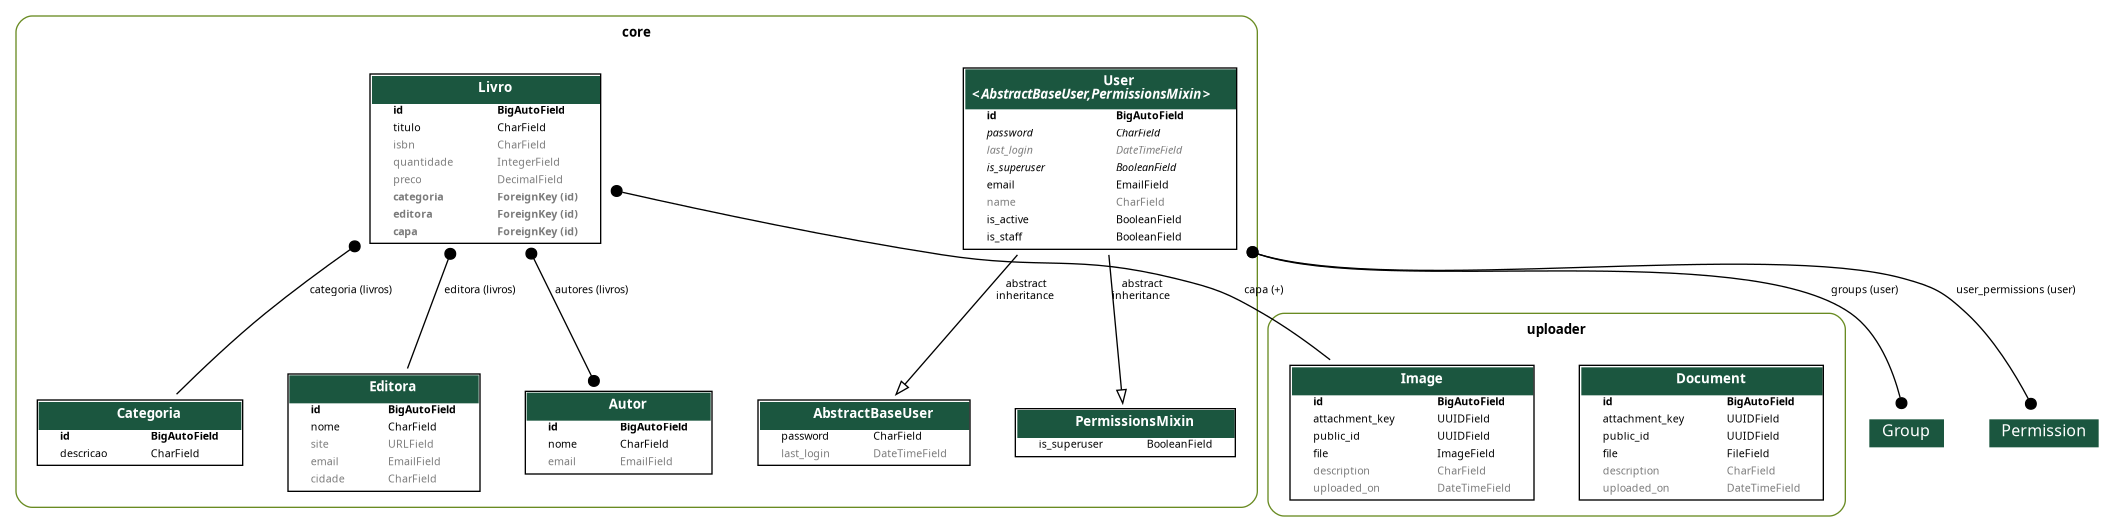
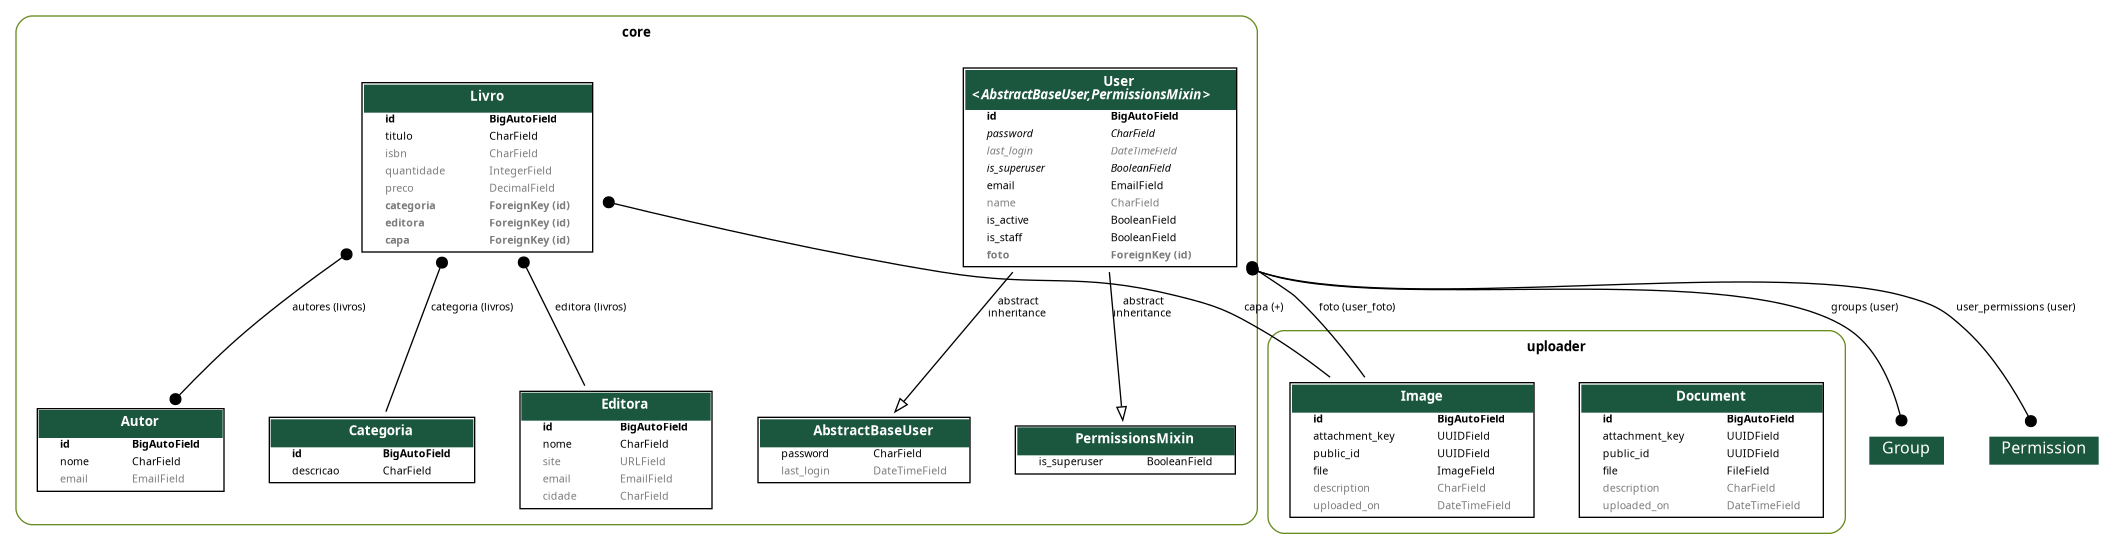
feat: inclusão da foto de perfil no usuário

diff --git a/core/admin.py b/core/admin.py
@@ -1,6 +1,7 @@
 """
 Django admin customization.
 """
+
 from django.contrib import admin
 from django.contrib.admin import ModelAdmin, register
 from django.contrib.auth.admin import UserAdmin as BaseUserAdmin
@@ -41,7 +42,7 @@ class LivroAdmin(admin.ModelAdmin):
     list_display = ('titulo', 'editora', 'categoria')
     search_fields = ('titulo', 'editora__nome', 'categoria__descricao')
     list_filter = ('editora', 'categoria')
-    ordering = ('titulo', 'editora', 'categoria')
+    ordering = ('titulo',)
     list_per_page = 25
 
 
@@ -50,10 +51,42 @@ class UserAdmin(BaseUserAdmin):
     """Define the admin pages for users."""
 
     ordering = ['id']
-    list_display = ['email', 'name']
+
+    list_display = (
+        'email',
+        'name',
+        'is_staff',
+        'is_active',
+    )
+
+    search_fields = (
+        'email',
+        'name',
+    )
+
+    readonly_fields = (
+        'last_login',
+    )
+
     fieldsets = (
-        (None, {'fields': ('email', 'password')}),
-        (_('Personal Info'), {'fields': ('name',)}),
+        (
+            None,
+            {
+                'fields': (
+                    'email',
+                    'password',
+                ),
+            },
+        ),
+        (
+            _('Personal Info'),
+            {
+                'fields': (
+                    'name',
+                    'foto',
+                ),
+            },
+        ),
         (
             _('Permissions'),
             {
@@ -61,14 +94,21 @@ class UserAdmin(BaseUserAdmin):
                     'is_active',
                     'is_staff',
                     'is_superuser',
-                )
+                    'groups',
+                    'user_permissions',
+                ),
             },
         ),
-        (_('Important dates'), {'fields': ('last_login',)}),
-        (_('Groups'), {'fields': ('groups',)}),
-        (_('User Permissions'), {'fields': ('user_permissions',)}),
+        (
+            _('Important dates'),
+            {
+                'fields': (
+                    'last_login',
+                ),
+            },
+        ),
     )
-    readonly_fields = ['last_login']
+
     add_fieldsets = (
         (
             None,
@@ -76,9 +116,9 @@ class UserAdmin(BaseUserAdmin):
                 'classes': ('wide',),
                 'fields': (
                     'email',
+                    'name',
                     'password1',
                     'password2',
-                    'name',
                     'is_active',
                     'is_staff',
                     'is_superuser',

diff --git a/core/serializers/user.py b/core/serializers/user.py
@@ -1,18 +1,35 @@
 from rest_framework import serializers
-from rest_framework.serializers import ModelSerializer
+from rest_framework.serializers import ModelSerializer, SlugRelatedField
 
 from core.models import User
+from uploader.models import Image
+from uploader.serializers import ImageSerializer
 
 
 class UserSerializer(ModelSerializer):
+    foto_attachment_key = SlugRelatedField(
+        source='foto',
+        queryset=Image.objects.all(),
+        slug_field='attachment_key',
+        required=False,
+        write_only=True,
+    )
+
+    foto = ImageSerializer(
+        required=False,
+        read_only=True,
+    )
+
     class Meta:
         model = User
-        fields = ['id', 'email', 'name', 'is_active', 'is_staff', 'is_superuser', 'last_login', 'groups']
-        depth = 1
+        fields = '__all__'
 
 
 class UserRegistrationSerializer(ModelSerializer):
-    password = serializers.CharField(write_only=True, min_length=8)
+    password = serializers.CharField(
+        write_only=True,
+        min_length=8,
+    )
 
     class Meta:
         model = User

diff --git a/core/migrations/0013_user_foto.py b/core/migrations/0013_user_foto.py
@@ -1,0 +1,20 @@
+# Generated by Django 5.2.13 on 2026-05-12 17:09
+
+import django.db.models.deletion
+from django.db import migrations, models
+
+
+class Migration(migrations.Migration):
+
+    dependencies = [
+        ('core', '0012_alter_livro_preco'),
+        ('uploader', '0001_initial'),
+    ]
+
+    operations = [
+        migrations.AddField(
+            model_name='user',
+            name='foto',
+            field=models.ForeignKey(blank=True, default=None, null=True, on_delete=django.db.models.deletion.SET_NULL, related_name='user_foto', to='uploader.image'),
+        ),
+    ]

diff --git a/core/models/user.py b/core/models/user.py
@@ -10,6 +10,8 @@ from django.contrib.auth.models import (
 from django.db import models
 from django.utils.translation import gettext_lazy as _
 
+from uploader.models import Image
+
 
 class UserManager(BaseUserManager):
     """Manager for users."""
@@ -49,6 +51,14 @@ class User(AbstractBaseUser, PermissionsMixin):
         default=False,
         verbose_name=_('Usuário é da equipe'),
         help_text=_('Indica que este usuário pode acessar o Admin.'),
+    )
+    foto = models.ForeignKey(
+        Image,
+        related_name='user_foto',
+        on_delete=models.SET_NULL,
+        null=True,
+        blank=True,
+        default=None,
     )
 
     objects = UserManager()